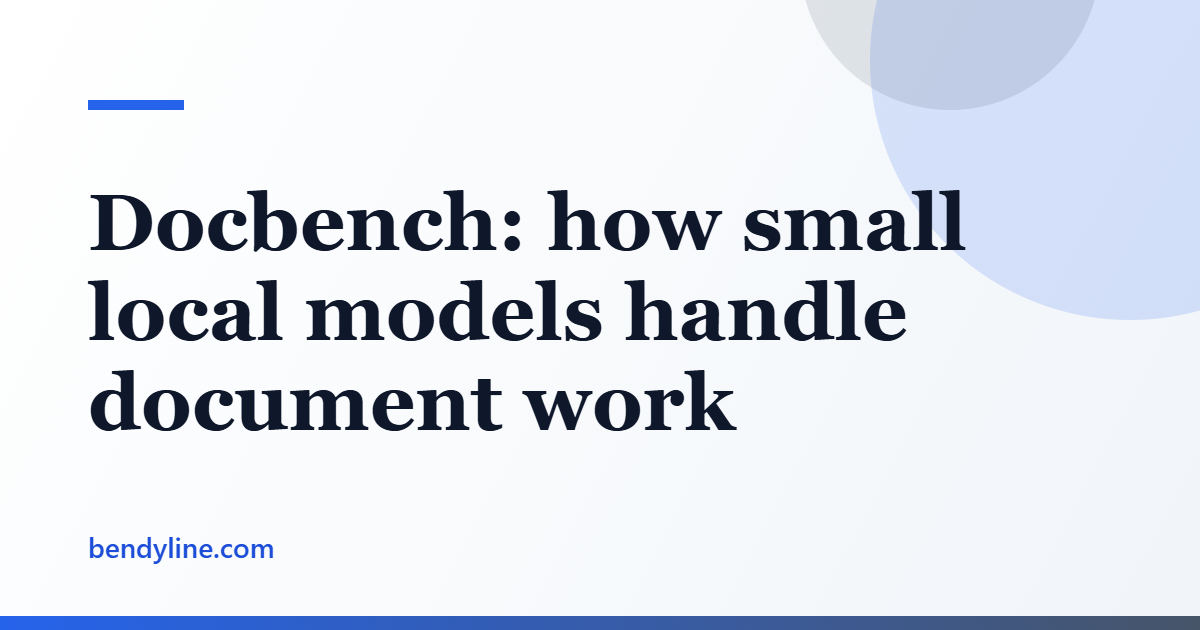
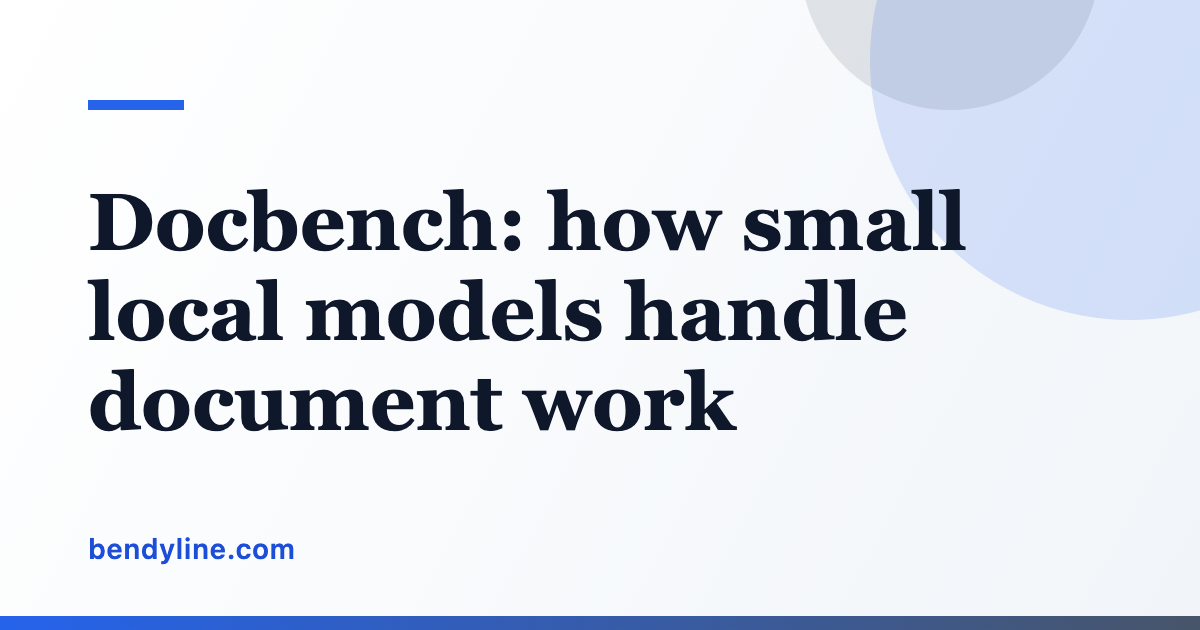
fix: Add YouTube link

diff --git a/posts/index.html b/posts/index.html
@@ -1,5 +1,5 @@
 <!DOCTYPE html>
-<!-- docblocks-workspace-catalog v1 inputs=sha256:5086ee80c83c9017a122d3573d83cc9f8d719786240296e5029ed9cee3d3986b -->
+<!-- docblocks-workspace-catalog v1 inputs=sha256:8a6a904a555d661a6cce5559c0386161290d7031239ecf2b4e48bc984a295734 -->
 <html lang="en">
 <head>
 <meta charset="UTF-8">
@@ -79,6 +79,6 @@
 </head>
 <body>
 <h1>Bendyline Blog</h1>
-<ul><li><p><a href="introducingknowledge.html">Gezel and Knowledge</a> · 2026-10-28 — We're going to talk a little bit about indexing, knowledge, and how to improve the performance of models running locally on your devices.</p></li><li><p><a href="allaboutlocalmodels.html">Everything You Need to Know about Local Models</a> · 2026-10-27 — The ideal is that you should never need to know much about local AI models. Apps like Gezel try to, or should try to, autoselect the best possible model for you. But if you're curious, or experimenting, you may want to know a bit more about AI models. You'll want to visit…</p></li><li><p><a href="docbench.html">Docbench: how small local models handle document work</a> — DocBlocks recently added support for using local models to provide AI features for document tasks. You can select a model, it downloads, and you get basic features like document review and content editing.</p></li><li><p><a href="howdocblocksusesgezelasanapi.html">DocBlocks and how Gezel works as an API</a> — DocBlocks started off as a simple markdown editor, but the vision has always been to let you do more with your content. Convert to video. Save off web pages. Produce slideshows. Quiz via flashcard. Act as a teleprompter. Write a blog post that saves as HTML, like I'm doing now.…</p></li><li><p><a href="indexingandnightshift.html">Indexing and the Night Shift in Gezel</a> — Gezel (gezel.com) uses the power of local AI models to assist you with work. Admittedly, local AI models are not nearly as powerful as cloud models, but for so many tasks, they can be so useful and get the job done. One benefit from local AI is that you can run them on the…</p></li><li><p><a href="rtxsparkvstheworld.html">RTX Spark vs. the World</a> — This is the first in a series of articles on testing and evaluating local models. These tests compare complete Gezel/model/engine configurations across five computers. They show useful differences in inference speed and memory capacity.</p></li></ul>
+<ul><li><p><a href="introducingknowledge.html">Gezel and Knowledge</a> · 2026-10-28 — We're going to talk a little bit about indexing, knowledge, and how to improve the performance of models running locally on your devices.</p></li><li><p><a href="allaboutlocalmodels.html">Everything You Need to Know about Local Models</a> · 2026-10-27 — The ideal is that you should never need to know much about local AI models. Apps like Gezel try to, or should try to, autoselect the best possible model for you. But if you're curious, or experimenting, you may want to know a bit more about AI models. You'll want to visit…</p></li><li><p><a href="docbench.html">Docbench: how small local models handle document work</a> — YouTube version:</p></li><li><p><a href="howdocblocksusesgezelasanapi.html">DocBlocks and how Gezel works as an API</a> — DocBlocks started off as a simple markdown editor, but the vision has always been to let you do more with your content. Convert to video. Save off web pages. Produce slideshows. Quiz via flashcard. Act as a teleprompter. Write a blog post that saves as HTML, like I'm doing now.…</p></li><li><p><a href="indexingandnightshift.html">Indexing and the Night Shift in Gezel</a> — Gezel (gezel.com) uses the power of local AI models to assist you with work. Admittedly, local AI models are not nearly as powerful as cloud models, but for so many tasks, they can be so useful and get the job done. One benefit from local AI is that you can run them on the…</p></li><li><p><a href="rtxsparkvstheworld.html">RTX Spark vs. the World</a> — This is the first in a series of articles on testing and evaluating local models. These tests compare complete Gezel/model/engine configurations across five computers. They show useful differences in inference speed and memory capacity.</p></li></ul>
 </body>
 </html>

diff --git a/posts/docbench.html b/posts/docbench.html
@@ -60,6 +60,15 @@
     .squisq-feature, .squisq-feature--right { flex-direction: column; }
     .squisq-feature__media { flex-basis: auto; width: 100%; }
   }
+  .squisq-video-embed { display: block; max-width: 720px; margin: 1.25em 0; }
+  .squisq-video-embed[data-orientation="portrait"] { max-width: 340px; }
+  .squisq-video-embed-frame { position: relative; display: block; overflow: hidden; border-radius: 6px; background: #000; }
+  .squisq-video-embed-frame iframe { position: absolute; inset: 0; width: 100%; height: 100%; border: 0; }
+  .squisq-video-embed-poster img { position: absolute; inset: 0; width: 100%; height: 100%; object-fit: cover; }
+  .squisq-video-embed-play { position: absolute; left: 50%; top: 50%; width: 64px; height: 44px; margin: -22px 0 0 -32px; border-radius: 12px; background: rgba(0, 0, 0, 0.72); }
+  .squisq-video-embed-play::after { content: ''; position: absolute; left: 26px; top: 12px; border-style: solid; border-width: 10px 0 10px 16px; border-color: transparent transparent transparent #fff; }
+  .squisq-video-embed-provider { position: absolute; left: 12px; bottom: 10px; color: #fff; font-size: 0.8em; font-weight: 600; text-shadow: 0 1px 2px rgba(0, 0, 0, 0.8); }
+  .squisq-video-embed-caption { margin-top: 0.4em; font-size: 0.875em; opacity: 0.8; }
 </style>
 <link rel="stylesheet" href="/assets/site.css">
     <link rel="stylesheet" href="/assets/post.css">
@@ -69,13 +78,13 @@
     <meta property="og:description" content="Notes from the Bendyline workshop: product news, deep dives, and what we're learning as we build.">
     <meta property="og:type" content="article">
     <meta property="og:site_name" content="Bendyline">
-    <meta property="og:image" content="https://bendyline.com/posts/docbench_files/og-image.png?v=7b27ed35">
+    <meta property="og:image" content="https://bendyline.com/posts/docbench_files/og-image.png?v=c6df7fae">
 
     <!-- Twitter Card -->
     <meta name="twitter:card" content="summary_large_image">
     <meta name="twitter:title" content="Docbench: how small local models handle document work">
     <meta name="twitter:description" content="Notes from the Bendyline workshop: product news, deep dives, and what we're learning as we build.">
-    <meta name="twitter:image" content="https://bendyline.com/posts/docbench_files/og-image.png?v=7b27ed35">
+    <meta name="twitter:image" content="https://bendyline.com/posts/docbench_files/og-image.png?v=c6df7fae">
 </head>
 <body>
     <header class="site-header">
@@ -104,6 +113,8 @@
                 <div class="post-body" data-post-body>
                     <!-- squisq:content -->
 <h1>Docbench: how small local models handle document work</h1>
+<p>YouTube version:</p>
+<figure class="squisq-video-embed" data-provider="youtube" data-orientation="landscape"><span class="squisq-video-embed-frame" style="aspect-ratio: 16 / 9"><iframe src="https://www.youtube-nocookie.com/embed/t9W6KSOdJgU" title="YouTube video" allow="accelerometer; autoplay; clipboard-write; encrypted-media; gyroscope; picture-in-picture; web-share; fullscreen" allowfullscreen referrerpolicy="strict-origin-when-cross-origin" loading="lazy"></iframe></span></figure>
 <p>DocBlocks recently added support for using local models to provide AI features for document tasks. You can select a model, it downloads, and you get basic features like document review and content editing.</p>
 <p><video src="docbench_files/screen-20261112-145823-edited.mp4" controls="" width="480"></video></p>
 <p>Pretty quickly, we ran into an obvious usability problem: how are users supposed to know which models to use, especially amongst a choice of a lot of models? Though we have some good measurements from Gezel's overall scorecard, we set out to measure and create a focused synthetic benchmark of model usability for documents.</p>

diff --git a/posts/docbench_files/docbench.md b/posts/docbench_files/docbench.md
@@ -7,6 +7,10 @@ squisq-html-output: static
 ---
 # Docbench: how small local models handle document work
 
+YouTube version:
+
+[https://www.youtube.com/watch?v=t9W6KSOdJgU](https://www.youtube.com/watch?v=t9W6KSOdJgU)
+
 DocBlocks recently added support for using local models to provide AI features for document tasks. You can select a model, it downloads, and you get basic features like document review and content editing.
 
 <video src="screen-20261112-145823-edited.mp4" controls width="480"></video>
